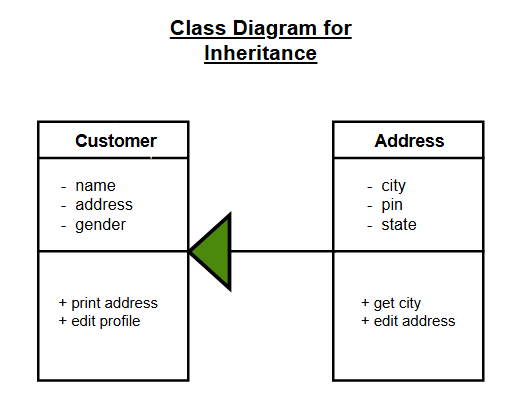
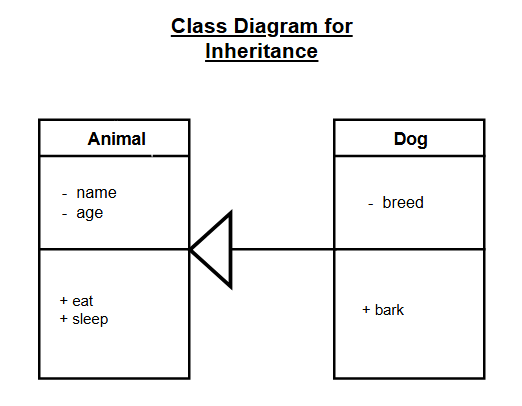
Updated images folder and README.md with correct class diagram for inheritance

diff --git a/oops/README.md b/oops/README.md
@@ -76,7 +76,7 @@ d.bark()
 ```
 **Class Diagram**
 
-The diagram below demonstrates inheritance using another example (`Customer` and `Address`) for clarity.
+The diagram below demonstrates inheritance for visual clarity.
 
 ![Inheritance Class Diagram](images/inheritance_class_diagram.png)
 
